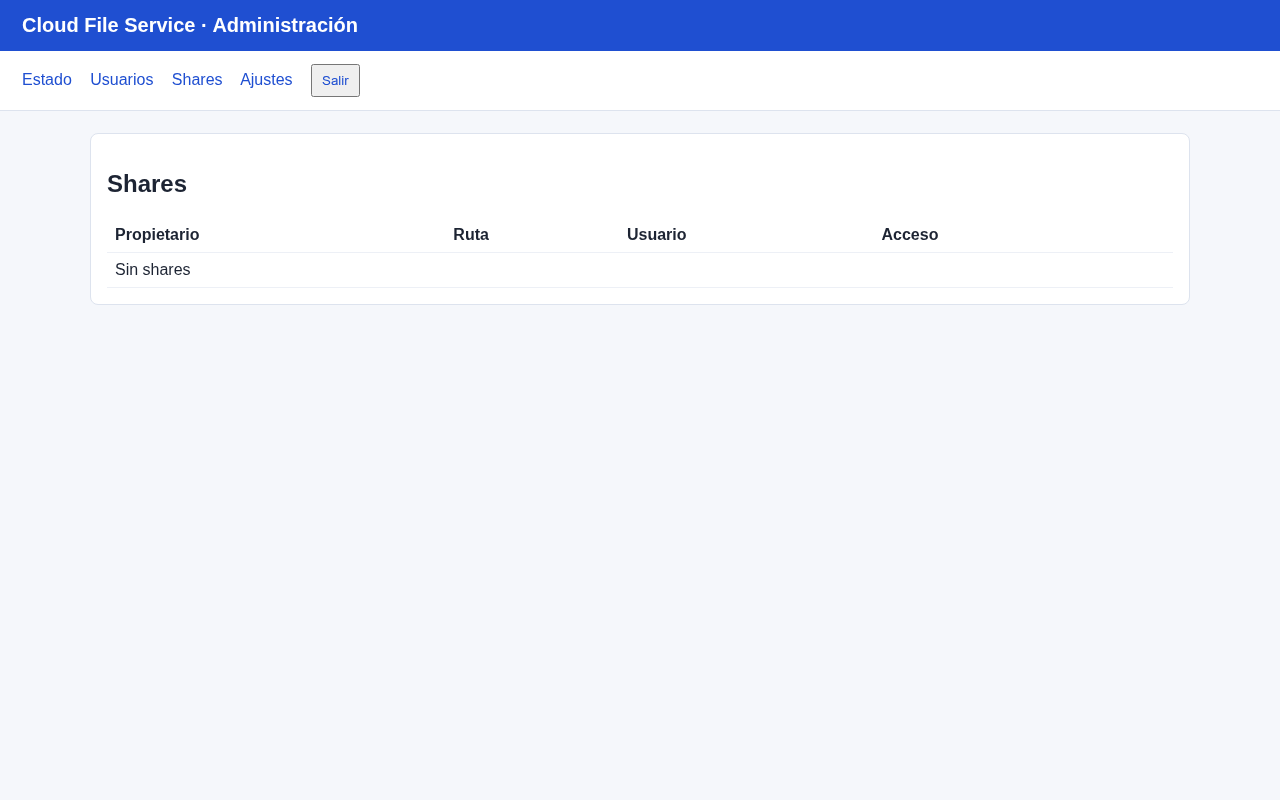
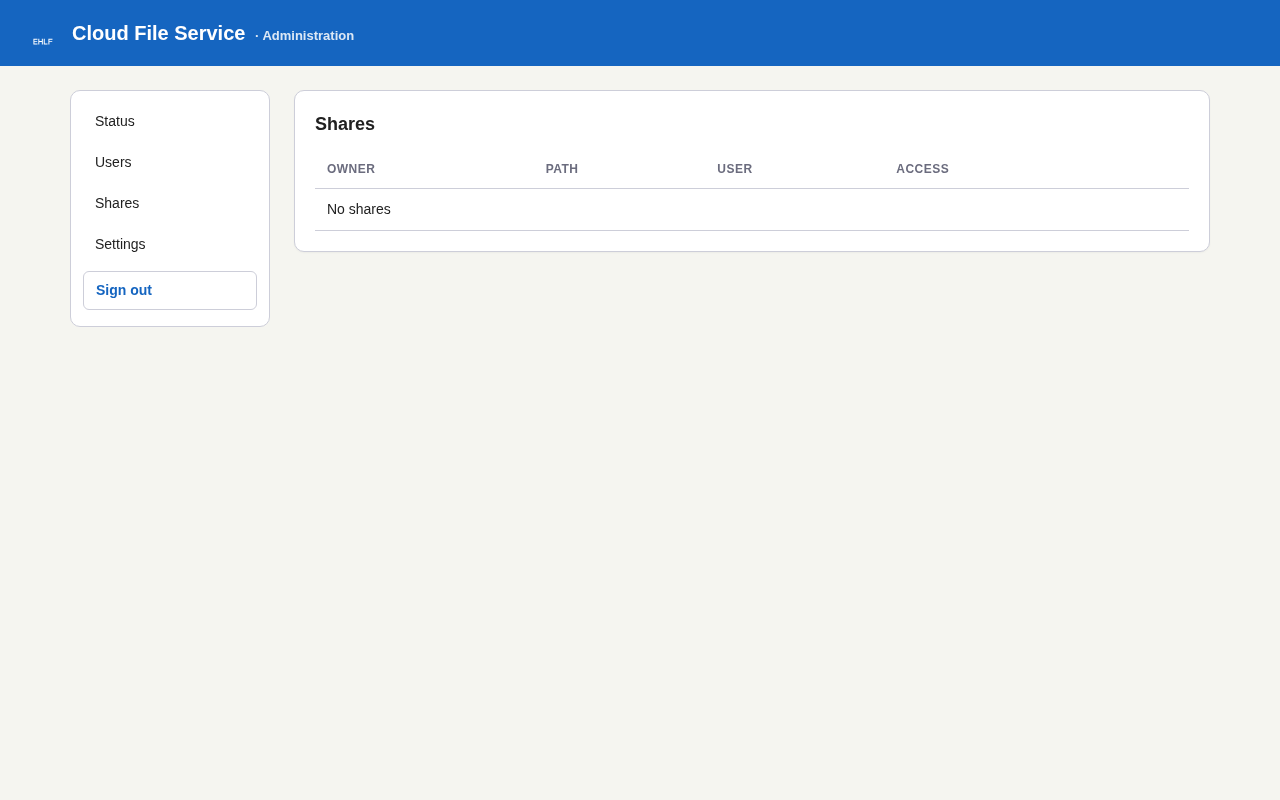
docs: recapture screenshots with English EHU-branded UI

diff --git a/server_admin.py b/server_admin.py
@@ -196,16 +196,16 @@ class AdminHandler(BaseHTTPRequestHandler):
         nav = ""
         if session is not None:
             nav = """
-            <nav>
+            <aside class="sidebar">
               <a href="/">Status</a>
               <a href="/users">Users</a>
               <a href="/shares">Shares</a>
               <a href="/settings">Settings</a>
-              <form method="post" action="/logout" class="inline">
+              <form method="post" action="/logout">
                 <input type="hidden" name="csrf" value="{csrf}">
-                <button type="submit">Sign out</button>
+                <button type="submit" class="secondary">Sign out</button>
               </form>
-            </nav>
+            </aside>
             """.format(csrf=html.escape(session["csrf"]))
         return """<!doctype html>
 <html lang="en">
@@ -249,7 +249,17 @@ nav {{ background: var(--card); padding: 10px 24px; border-bottom: 1px solid var
 nav a, nav button {{ margin-right: 6px; color: var(--ehu-blue); text-decoration: none; padding: 6px 10px; border-radius: 6px; font-size: 14px; }}
 nav a:hover, nav button:hover {{ background: rgba(21,101,192,0.08); }}
 form.inline {{ display: inline; }}
-main {{ max-width: 1180px; margin: 24px auto; padding: 0 20px; }}
+.layout {{ display: flex; gap: 24px; max-width: 1180px; margin: 24px auto; padding: 0 20px; }}
+.sidebar {{ width: 200px; flex-shrink: 0; display: flex; flex-direction: column; gap: 4px; padding: 12px; background: var(--card); border: 1px solid var(--border); border-radius: var(--radius); height: fit-content; position: sticky; top: 16px; }}
+.sidebar a, .sidebar button {{ display: block; padding: 8px 12px; border-radius: 6px; color: var(--fg); text-decoration: none; font-size: 14px; background: transparent; border: none; text-align: left; cursor: pointer; width: 100%; }}
+.sidebar a:hover, .sidebar button:hover {{ background: rgba(21,101,192,0.08); color: var(--ehu-blue); }}
+.sidebar form {{ margin: 0; }}
+main {{ flex: 1; min-width: 0; }}
+@media (max-width: 720px) {{
+  .layout {{ flex-direction: column; }}
+  .sidebar {{ width: 100%; position: static; flex-direction: row; flex-wrap: wrap; }}
+  .sidebar a, .sidebar button {{ width: auto; }}
+}}
 .card {{ background: var(--card); border: 1px solid var(--border); border-radius: var(--radius); padding: 20px; margin-bottom: 18px; box-shadow: 0 1px 2px rgba(0,0,0,0.04); }}
 .card h2 {{ margin: 0 0 12px; font-size: 18px; }}
 table {{ border-collapse: collapse; width: 100%; }}
@@ -288,8 +298,10 @@ button.secondary {{ background: transparent; color: var(--ehu-blue); border: 1px
   </svg>
   <h1>Cloud File Service <span class="subtitle">· Administration</span></h1>
 </header>
-{nav}
-<main>{body}</main>
+<div class="layout">
+  {nav}
+  <main>{body}</main>
+</div>
 </body>
 </html>""".format(title=html.escape(title), nav=nav, body=body)
 
@@ -421,14 +433,22 @@ button.secondary {{ background: transparent; color: var(--ehu-blue); border: 1px
         notice = ""
         if not status.get("is_primary"):
             target = self.portal.primary_url()
-            notice = '<div class="notice">Este nodo es seguidor. Las acciones de escritura se redirigen al primario{}. </div>'.format(
+            notice = '<div class="notice">This node is a follower. Write actions are redirected to the primary{}. </div>'.format(
                 ' <a href="{}">{}</a>'.format(html.escape(target), html.escape(target))
                 if target
                 else ""
             )
         rows = "".join(
             "<tr><th>{}</th><td>{}</td></tr>".format(
-                html.escape(str(key)), html.escape(str(value))
+                html.escape(str(key)),
+                (
+                    '<span class="badge badge-{}">{}</span>'.format(
+                        "leader" if str(value) == "leader" else "follower",
+                        html.escape(str(value)),
+                    )
+                    if key == "role"
+                    else html.escape(str(value))
+                ),
             )
             for key, value in status.items()
         )
@@ -446,17 +466,17 @@ button.secondary {{ background: transparent; color: var(--ehu-blue); border: 1px
             step_down = """
             <form method="post" action="/admin/step-down" class="inline">
               <input type="hidden" name="csrf" value="{csrf}">
-              <button type="submit">Simular caída del primario (demo)</button>
+              <button type="submit">Simulate primary failure (demo)</button>
             </form>
             """.format(csrf=html.escape(session["csrf"]))
         body = """
         {notice}
         <div class="card"><h2>Replication status</h2><table>{rows}</table></div>
-        <div class="card"><h2>Acciones recientes</h2>
-          <table><tr><th>Fecha</th><th>Admin</th><th>Acción</th><th>Objetivo</th></tr>{audit}</table>
+        <div class="card"><h2>Recent actions</h2>
+          <table><tr><th>Date</th><th>Admin</th><th>Action</th><th>Target</th></tr>{audit}</table>
           {step_down}
         </div>
-        """.format(notice=notice, rows=rows, audit=audit or "<tr><td colspan='4'>Sin acciones</td></tr>", step_down=step_down)
+        """.format(notice=notice, rows=rows, audit=audit or "<tr><td colspan='4'>No actions</td></tr>", step_down=step_down)
         self._send(self._page("Status", body, session))
 
     def _users_page(self, session):
@@ -476,12 +496,15 @@ button.secondary {{ background: transparent; color: var(--ehu-blue); border: 1px
                 <form method="post" action="/users/{quoted}/password" class="inline">
                   <input type="hidden" name="csrf" value="{csrf}">
                   <input type="password" name="password" placeholder="New password">
-                  <button type="submit">Resetear</button>
+                  <button type="submit">Reset</button>
                 </form>
                 </td></tr>""".format(
                     name=name,
                     role=html.escape(user["role"]),
-                    disabled="sí" if user["disabled"] else "no",
+                    disabled='<span class="badge badge-{}">{}</span>'.format(
+                        "follower" if user["disabled"] else "leader",
+                        "yes" if user["disabled"] else "no",
+                    ),
                     quoted=html.escape(quoted),
                     toggle=toggle,
                     label=label,
@@ -511,12 +534,14 @@ button.secondary {{ background: transparent; color: var(--ehu-blue); border: 1px
               <input type="hidden" name="owner" value="{owner}">
               <input type="hidden" name="path" value="{path}">
               <input type="hidden" name="grantee" value="{grantee}">
-              <button type="submit">Revocar</button>
+              <button type="submit">Revoke</button>
             </form></td></tr>""".format(
                 owner=html.escape(share["owner"]),
                 path=html.escape(share["path"]),
                 grantee=html.escape(share["grantee"]),
-                access=html.escape(share["access"]),
+                access='<span class="badge badge-{}">{}</span>'.format(
+                    html.escape(share["access"]), html.escape(share["access"])
+                ),
                 csrf=html.escape(session["csrf"]),
             )
             for share in self.service.shares()
@@ -529,11 +554,11 @@ button.secondary {{ background: transparent; color: var(--ehu-blue); border: 1px
     def _settings_page(self, session):
         enabled = self.service.status().get("registration_enabled", False)
         body = """
-        <div class="card"><h2>Ajustes</h2>
+        <div class="card"><h2>Settings</h2>
           <form method="post" action="/settings/registration">
             <input type="hidden" name="csrf" value="{csrf}">
-            <label><input type="checkbox" name="registration" {checked}> Permitir registro abierto</label>
-            <button type="submit">Guardar</button>
+            <label><input type="checkbox" name="registration" {checked}> Allow open registration</label>
+            <button type="submit">Save</button>
           </form>
         </div>
         """.format(

diff --git a/gui_app.py b/gui_app.py
@@ -112,15 +112,19 @@ class GuiApp:
         self.user_var = tk.StringVar()
         self.password_var = tk.StringVar()
 
-        fields = [
+        primary_fields = [
             ("Server", self.server_var, None),
-            ("Port", self.port_var, None),
-            ("Local folder", self.folder_var, "folder"),
-            ("TLS CA (optional)", self.ca_var, "file"),
             ("Username", self.user_var, None),
             ("Password", self.password_var, "password"),
         ]
-        for row, (label, variable, kind) in enumerate(fields, start=1):
+        advanced_fields = [
+            ("Port", self.port_var, None),
+            ("Local folder", self.folder_var, "folder"),
+            ("TLS CA (optional)", self.ca_var, "file"),
+        ]
+
+        row = 1
+        for label, variable, kind in primary_fields:
             ttk.Label(self.login_frame, text=label).grid(
                 row=row, column=0, sticky="w", pady=4
             )
@@ -136,18 +140,61 @@ class GuiApp:
                     text="Browse",
                     command=lambda v=variable, k=kind: self._choose(v, k),
                 ).grid(row=row, column=2, padx=(6, 0))
+            row += 1
+
+        self._advanced_toggle = ttk.Button(
+            self.login_frame,
+            text="Advanced settings",
+            command=self._toggle_advanced,
+        )
+        self._advanced_toggle.grid(row=row, column=0, columnspan=3, sticky="w", pady=(8, 4))
+        row += 1
+
+        self._advanced_frame = ttk.Frame(self.login_frame)
+        self._advanced_frame.grid(row=row, column=0, columnspan=3, sticky="ew")
+        self._advanced_frame.grid_remove()
+        adv_row = 0
+        for label, variable, kind in advanced_fields:
+            ttk.Label(self._advanced_frame, text=label).grid(
+                row=adv_row, column=0, sticky="w", pady=4
+            )
+            entry = ttk.Entry(
+                self._advanced_frame,
+                textvariable=variable,
+                show="*" if kind == "password" else "",
+            )
+            entry.grid(row=adv_row, column=1, sticky="ew", pady=4)
+            if kind in {"folder", "file"}:
+                ttk.Button(
+                    self._advanced_frame,
+                    text="Browse",
+                    command=lambda v=variable, k=kind: self._choose(v, k),
+                ).grid(row=adv_row, column=2, padx=(6, 0))
+            adv_row += 1
+        self._advanced_frame.columnconfigure(1, weight=1)
+        row += 1
+
         self.login_frame.columnconfigure(1, weight=1)
 
         self.login_status = ttk.Label(self.login_frame, text="")
-        self.login_status.grid(row=8, column=0, columnspan=3, pady=10, sticky="w")
+        self.login_status.grid(row=row, column=0, columnspan=3, pady=10, sticky="w")
+        row += 1
         buttons = ttk.Frame(self.login_frame)
-        buttons.grid(row=9, column=0, columnspan=3, pady=8, sticky="w")
-        ttk.Button(buttons, text="Sign in", command=self.login).pack(
+        buttons.grid(row=row, column=0, columnspan=3, pady=8, sticky="w")
+        ttk.Button(buttons, text="Sign in", command=self.login, style="Primary.TButton").pack(
             side="left", padx=(0, 8)
         )
         ttk.Button(buttons, text="Create account", command=self.register).pack(
             side="left"
         )
+
+    def _toggle_advanced(self):
+        if self._advanced_frame.winfo_ismapped():
+            self._advanced_frame.grid_remove()
+            self._advanced_toggle.configure(text="Advanced settings")
+        else:
+            self._advanced_frame.grid()
+            self._advanced_toggle.configure(text="Hide advanced settings")
 
     def _choose(self, variable, kind):
         if kind == "folder":
@@ -234,7 +281,8 @@ class GuiApp:
         self.status_var = tk.StringVar(value="Connected")
         self.endpoint_var = tk.StringVar(value="")
         self.pending_var = tk.StringVar(value="0 pending changes")
-        ttk.Label(top, textvariable=self.status_var, font=("TkDefaultFont", 11, "bold")).pack(side="left", padx=12)
+        self.status_pill = ttk.Label(top, textvariable=self.status_var, style="Status.TLabel", foreground="#3B8719")
+        self.status_pill.pack(side="left", padx=12)
         ttk.Label(top, textvariable=self.endpoint_var).pack(side="left", padx=12)
         ttk.Label(top, textvariable=self.pending_var).pack(side="right")
 
@@ -383,6 +431,9 @@ class GuiApp:
             self.status_var.set("Syncing" if self.running else "Paused")
             self.endpoint_var.set(data.get("endpoint") or "")
             self.pending_var.set("{} pending changes".format(data.get("pending", 0)))
+            if hasattr(self, "status_pill"):
+                color = "#3B8719" if self.running else "#C75200"
+                self.status_pill.configure(foreground=color)
             if hasattr(self, "pause_button"):
                 self.pause_button.configure(
                     text="Pause sync" if self.running else "Resume sync"

diff --git a/scripts/build_release_bundle.py b/scripts/build_release_bundle.py
@@ -34,6 +34,7 @@ COMPONENTS = {
             "gui_app",
             "client_daemon",
             "daemon_service",
+            "theme",
         ],
         "exclude_modules": ["PIL", "pystray", "tray"],
     },
@@ -47,8 +48,9 @@ COMPONENTS = {
             "client_daemon",
             "daemon_service",
             "gui_app",
+            "theme",
         ],
-        "exclude_modules": ["PIL", "pystray", "tray"],
+        "exclude_modules": ["PIL", "pystray", "tray", "branding"],
     },
     "client-gui": {
         "entrypoint": "gui_fich.py",
@@ -64,6 +66,8 @@ COMPONENTS = {
             "tray",
             "PIL",
             "pystray",
+            "theme",
+            "branding",
         ],
     },
 }
@@ -117,7 +121,7 @@ def build_bundle(component: str, output_directory: Path, archive_format: str) ->
             *[
                 item
                 for data in settings.get("extra_data", [])
-                for item in ("--add-data", "{}:{}".format(data, Path(data).parent.as_posix()))
+                for item in ("--add-data", "{}:{}".format(ROOT / data, Path(data).parent.as_posix()))
             ],
             str(ROOT / settings["entrypoint"]),
         ],

diff --git a/branding.py b/branding.py
@@ -12,11 +12,15 @@ ASSET_NAME = "ehu-mark.png"
 def _asset_paths():
     paths = []
     if getattr(sys, "frozen", False):
-        paths.append(Path(sys._MEIPASS) / "assets" / "brand" / ASSET_NAME)
+        base = Path(sys._MEIPASS)
+        paths.append(base / "assets" / "brand" / ASSET_NAME)
+        paths.append(base / "docs" / "assets" / "brand" / ASSET_NAME)
         paths.append(Path(sys.executable).resolve().parent / "assets" / "brand" / ASSET_NAME)
+        paths.append(Path(sys.executable).resolve().parent / "docs" / "assets" / "brand" / ASSET_NAME)
     here = Path(__file__).resolve().parent
     paths.append(here / "docs" / "assets" / "brand" / ASSET_NAME)
     paths.append(here / "assets" / "brand" / ASSET_NAME)
+    paths.append(here / "docs" / "assets" / "brand" / ASSET_NAME)
     for extra in os.environ.get("CLOUDFS_BRAND_DIR", "").split(os.pathsep):
         if extra:
             paths.append(Path(extra) / ASSET_NAME)

diff --git a/gui_fich.py b/gui_fich.py
@@ -46,7 +46,7 @@ def main(argv=None):
     try:
         controller.start_daemon()
     except Exception as error:
-        print("No se pudo iniciar el daemon: {}".format(error), file=sys.stderr)
+        print("Could not start the daemon: {}".format(error), file=sys.stderr)
         lock.release()
         return 1
 
